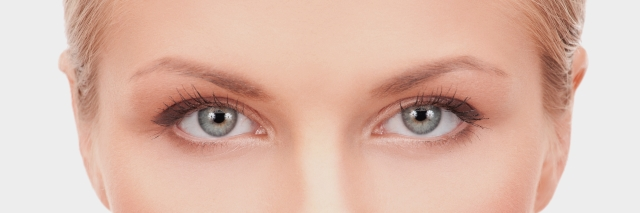
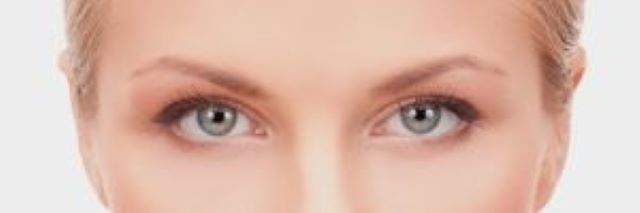
normalice el carrusel

diff --git a/index.html b/index.html
@@ -63,18 +63,27 @@
       </div>
     </section>
     <div class="carusel">
-      <div id="carouselExampleSlidesOnly" class="carousel slide" data-bs-ride="carousel">
+      <div id="carouselExampleControls" class="carousel slide" data-bs-ride="carousel">
         <div class="carousel-inner">
-          <div class="carousel-item active">
+.imgnormalizada img {
+          <div class="carousel-item imgnormalizada active">
             <img src="/images/testimonio1.jpg" class="d-block w-100" alt="testimonio1">
           </div>
-          <div class="carousel-item">
+          <div class="carousel-item imgnormalizada">
             <img src="/images/testimonio2.jpg" class="d-block w-100" alt="testimonio2">
           </div>
-          <div class="carousel-item">
+          <div class="carousel-item imgnormalizada">
             <img src="/images/testimonio3.jpg" class="d-block w-100" alt="testimonio3">
           </div>
         </div>
+        <button class="carousel-control-prev" type="button" data-bs-target="#carouselExampleControls" data-bs-slide="prev">
+          <span class="carousel-control-prev-icon" aria-hidden="true"></span>
+          <span class="visually-hidden">Previous</span>
+        </button>
+        <button class="carousel-control-next" type="button" data-bs-target="#carouselExampleControls" data-bs-slide="next">
+          <span class="carousel-control-next-icon" aria-hidden="true"></span>
+          <span class="visually-hidden">Next</span>
+        </button>
       </div>
     </div>
   </main>

diff --git a/css/styles.css b/css/styles.css
@@ -41,7 +41,6 @@ html {
     height: 140px;
     margin-left: 60px;
     border-radius: 50%;
-
 }
 h2 {
     font-family: 'Dancing Script', cursive;
@@ -179,11 +178,6 @@ h2 {
 
 }
 
-.carousel-inner img {
-    height: 550px;
-}
-
-
 
 .textoTestimonio {
     font-family: 'Dancing Script', cursive;
@@ -273,6 +267,9 @@ footer li {
 .formulario {
     display: flex;
     flex-direction: row;
+}
+.carusel {
+    width: 50%;
 }
 
 
